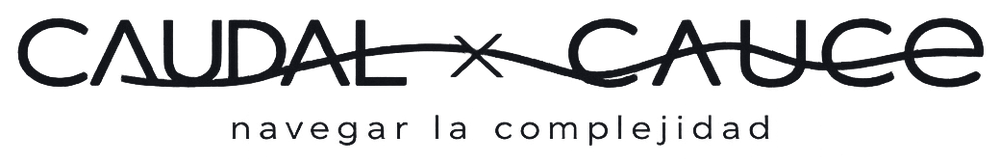
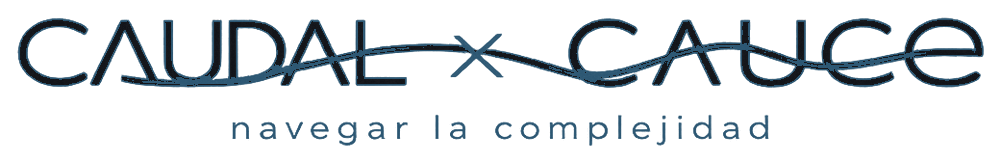
caudal: el expediente del cliente — el tablero de estado dentro del radar
El radar responde «¿qué se movió esta semana?». Faltaba la otra mitad, que es
la que un equipo lleva a mano en un Excel: «¿cómo va CADA frente que me toca,
se haya movido o no?». Ahora vive en el perfil del cliente, no en un archivo.

Por qué hace falta: un tablero a mano se desactualiza solo. En la matriz real
de un cliente (ago-2026) el proyecto de circular de SAGRILAFT figuraba «en
consulta» cuando ya se había expedido, y el de PSAV «pendiente de segundo
debate» cuando estaba archivado. No es descuido: siete frentes a mano no
escalan.

Se agrupa por URGENCIA y no por fuente, que es lo que el Excel no puede hacer:
en consulta pública (con el plazo corriendo) → en trámite → norma vigente →
cerrado. Cruza los cuatro pilares en una sola vista.

Dos decisiones de precisión, ambas medidas:

· El expediente exige que el tema esté en el TÍTULO. `radar_congreso` también
  acepta la coincidencia dentro del articulado —para descubrir es justo lo que
  se busca— pero para un registro es ruido: con el perfil de Binance, 9 de 14
  proyectos entraban solo por el texto, entre ellos uno sobre el STUNT como
  disciplina deportiva que menciona «lavado de activos» de pasada. Lo que se
  descarta queda contado en `solo_en_texto` y se dice en pantalla: si un tema
  importa de verdad, la salida es agregarlo al perfil.

· Con el filtro haciendo la precisión, el cupo del radar se abre de 24 a 90.
  El radar prioriza lo VIVO, así que con cupo corto los archivados relevantes
[…]

diff --git a/caudal.html b/caudal.html
@@ -563,6 +563,38 @@
     .kpis{grid-template-columns:repeat(2,1fr)} .grid2{grid-template-columns:1fr}
     .funnel-row .lab{width:96px}
   }
+
+  /* ── Expediente del cliente (tablero de estado) ───────────────────────── */
+  .tb-intro{font-size:.86rem;color:#9aa0b0;max-width:62ch;margin:.15rem 0 .7rem;line-height:1.5}
+  .tb-btn{background:transparent;border:1px solid rgba(255,255,255,.22);color:#e8e9ee;
+          font:inherit;font-size:.85rem;padding:.5rem .9rem;border-radius:3px;cursor:pointer}
+  .tb-btn:hover{border-color:#3d6fff;color:#fff}
+  .tb-kpis{display:flex;flex-wrap:wrap;gap:1.1rem;font-size:.82rem;color:#9aa0b0;
+           padding:.6rem 0 .9rem;border-bottom:1px solid rgba(255,255,255,.08)}
+  .tb-kpis b{color:#fff;font-weight:700}
+  .tb-kpis .tb-hoy{margin-left:auto;font-size:.74rem;opacity:.7}
+  .tb-grupo{margin:1.1rem 0;border-left:2px solid rgba(255,255,255,.14);padding-left:.85rem}
+  .tb-grupo.urg{border-left-color:#f97316}
+  .tb-grupo.viv{border-left-color:#3d6fff}
+  .tb-grupo.vig{border-left-color:#4ade80}
+  .tb-grupo.cer{border-left-color:rgba(255,255,255,.2)}
+  .tb-gh{font-size:.92rem;color:#e8e9ee}
+  .tb-gh span{color:#8b90a0;font-size:.8rem;margin-left:.3rem}
+  .tb-gn{font-size:.76rem;color:#8b90a0;margin:.15rem 0 .5rem}
+  .tb-tab{width:100%;border-collapse:collapse;font-size:.8rem}
+  .tb-tab th{text-align:left;font-weight:500;font-size:.68rem;letter-spacing:.5px;
+             text-transform:uppercase;color:#8b90a0;padding:.3rem .6rem .3rem 0;
+             border-bottom:1px solid rgba(255,255,255,.09)}
+  .tb-tab td{padding:.45rem .6rem .45rem 0;vertical-align:top;
+             border-bottom:1px solid rgba(255,255,255,.05);color:#ccd0da}
+  .tb-tab a{color:#ccd0da;text-decoration:none;border-bottom:1px solid rgba(255,255,255,.2)}
+  .tb-tab a:hover{color:#fff;border-color:#3d6fff}
+  .tb-ref{color:#fff;font-weight:700;white-space:nowrap}
+  .tb-q{color:#9aa0b0}
+  .tb-tipo{font-size:.7rem;color:#7d8290;margin-top:.1rem}
+  .tb-cierra{font-size:.7rem;color:#f97316;margin-top:.1rem}
+  .tb-nota{font-size:.76rem;color:#8b90a0;margin-top:.8rem;padding-top:.6rem;
+           border-top:1px solid rgba(255,255,255,.08);max-width:70ch;line-height:1.5}
 </style>
 </head>
 <body>
@@ -2448,7 +2480,60 @@
         <span class="chip" data-p="contratacion">Contratación <b>${con.length}</b></span>
         <span class="chip" data-p="medios">Prensa <b>${medios.length}</b></span>
       </div>
-      <div id="cli-detalle" style="margin-top:1rem"></div>`;
+      <div id="cli-detalle" style="margin-top:1rem"></div>
+
+      <div class="cli-sub" style="margin-top:1.6rem">El expediente de ${esc(cl.nombre)}</div>
+      <div class="tb-intro">El radar de arriba dice <b>qué se movió</b>. Esto dice
+        <b>cómo va cada frente</b>, se haya movido o no — el registro que un equipo
+        suele llevar a mano en un Excel y que se desactualiza solo.</div>
+      <div id="cli-tablero"><button class="tb-btn" id="tb-load">Abrir el expediente →</button></div>`;
+  }
+
+  // ── EXPEDIENTE DEL CLIENTE ───────────────────────────────────────────────
+  // Es la otra mitad del radar y se carga aparte, bajo demanda: recorre los
+  // cuatro pilares completos y no tiene por qué retrasar la primera pantalla.
+  const TB_CLS={consulta:'urg',tramite:'viv',vigente:'vig',cerrado:'cer'};
+  let TB_ARG=null;
+  function tbRender(d){
+    const box=document.getElementById('cli-tablero'); if(!box) return;
+    const k=d.kpis||{};
+    const grupos=(d.grupos||[]).filter(g=>g.n>0).map(g=>`
+      <div class="tb-grupo ${TB_CLS[g.k]||''}">
+        <div class="tb-gh"><b>${esc(g.nombre)}</b> <span>${g.n}</span></div>
+        <div class="tb-gn">${esc(g.nota||'')}</div>
+        <table class="tb-tab">
+          <tr><th style="width:16%">Referencia</th><th style="width:38%">Norma o proyecto</th>
+              <th style="width:24%">Entidad</th><th style="width:12%">Estado</th><th>Fecha</th></tr>
+          ${g.items.map(it=>`<tr>
+            <td class="tb-ref">${esc(it.ref||'—')}</td>
+            <td>${it.url?`<a href="${esc(it.url)}" target="_blank" rel="noopener">${esc(it.titulo)}</a>`:esc(it.titulo)}
+                <div class="tb-tipo">${esc(it.tipo||'')}</div></td>
+            <td class="tb-q">${esc(it.entidad||'—')}</td>
+            <td class="tb-q">${esc(it.estado||'—')}${it.cierra?`<div class="tb-cierra">cierra ${esc(it.cierra)}</div>`:''}</td>
+            <td class="tb-q">${esc((it.fecha||'').slice(0,10))}</td></tr>`).join('')}
+        </table>
+        ${g.n>g.items.length?`<div class="tb-gn">Se muestran ${g.items.length} de ${g.n}.</div>`:''}
+      </div>`).join('');
+    // El descarte se dice, no se esconde: si un tema importa y solo aparece en
+    // el articulado, la salida es agregarlo al perfil.
+    const nota=d.solo_en_texto?`<div class="tb-nota">${d.solo_en_texto} proyecto(s) más
+      mencionan estos temas dentro de su articulado pero no en el título, así que no entran
+      al expediente. Si alguno debería estar, agrega ese tema al perfil.</div>`:'';
+    box.innerHTML=`<div class="tb-kpis">
+        <span><b>${k.total||0}</b> frentes</span><span><b>${k.consulta||0}</b> en consulta</span>
+        <span><b>${k.tramite||0}</b> en trámite</span><span><b>${k.vigente||0}</b> vigentes</span>
+        <span><b>${k.cerrado||0}</b> cerrados</span>
+        <span class="tb-hoy">al ${esc(d.hoy||'')}</span>
+      </div>${grupos||'<div class="cli-empty">Sin frentes registrados para este perfil.</div>'}${nota}`;
+  }
+  document.addEventListener('click',ev=>{
+    if(ev.target&&ev.target.id==='tb-load'&&TB_ARG) tbLoad(TB_ARG);
+  });
+  async function tbLoad(arg){
+    const box=document.getElementById('cli-tablero'); if(!box) return;
+    box.innerHTML='<div class="llm-load">Armando el expediente <span class="dots"><span></span><span></span><span></span></span></div>';
+    try{ tbRender(await call({action:'tablero',...arg})); }
+    catch(e){ box.innerHTML='<div class="cli-empty">No se pudo armar el expediente. Reintenta en un momento.</div>'; }
   }
   function cliRenderLectura(l){
     const body=document.getElementById('cli-lectura-body'); if(!body) return;
@@ -2483,6 +2568,9 @@
     catch(e){ if(mine===_cliSeq&&body) body.innerHTML='<div class="err">No se pudo cargar el radar. Reintenta.</div>'; return; }
     if(mine!==_cliSeq) return;
     if(d&&d.error){ if(body) body.innerHTML='<div class="err">'+esc(d.error)+'</div>'; return; }
+    // el expediente se pide con el mismo `arg` del radar, pero solo cuando el
+    // usuario lo abre: recorre los cuatro pilares enteros
+    TB_ARG = esPerfil ? {perfil:req.perfil} : {sector:arg.sector};
     cliRender(d);
     // el radar ya está en pantalla; la lectura llega después (o ya venía hecha)
     if(d.lectura && !d.lectura.error) cliRenderLectura(d.lectura);

diff --git a/tools/caudal/lambda/lambda_handler.py b/tools/caudal/lambda/lambda_handler.py
@@ -3017,6 +3017,156 @@ def handler(event, context):
         # autocompletado del diccionario (④) para elegir empresas vigiladas
         return _resp(200, {'empresas': caudal_core.buscar_empresas(body.get('query', ''))})
 
+
+    if action == 'tablero':
+        # ── EL EXPEDIENTE DEL CLIENTE ──────────────────────────────────────
+        # El radar responde «¿qué se movió esta semana?». Esto responde la otra
+        # mitad, que es la que el cliente lleva a mano en un Excel: «¿cómo va
+        # CADA frente que me toca, se haya movido o no?».
+        #
+        # Por qué hace falta las dos cosas: un tablero de estado se desactualiza
+        # solo. En la matriz real de un cliente (ago-2026) el proyecto de
+        # circular de SAGRILAFT figuraba «en consulta» cuando ya se había
+        # expedido, y el proyecto de ley de PSAV «pendiente de segundo debate»
+        # cuando estaba archivado. Ninguna de las dos cosas es descuido: es que
+        # mantener siete frentes a mano no escala.
+        #
+        # Se agrupa por URGENCIA y no por fuente, que es lo que el Excel no
+        # puede hacer: primero lo que tiene plazo corriendo, al final lo cerrado.
+        sk = body.get('sector')
+        perfil_in = body.get('perfil')
+        if isinstance(perfil_in, dict):
+            s = caudal_core.normalizar_perfil(perfil_in)
+            if not s['temas'] and not s['empresas_keys']:
+                return _resp(400, {'error': 'el perfil necesita al menos un tema '
+                                            'o una empresa vigilada'})
+        else:
+            s = caudal_core.sector_cliente(sk)
+            if not s:
+                return _resp(400, {'error': f'sector desconocido: {sk}'})
+
+        temas = [_fold_q(t) for t in (s.get('temas') or []) if len(_fold_q(t)) >= 4]
+        for t in caudal_core.temas_de_empresas(s.get('empresas_keys')):
+            tf = _fold_q(t)
+            if len(tf) >= 4 and tf not in temas:
+                temas.append(tf)
+        casa = lambda blob: any(t in (blob or '') for t in temas)
+        hoy = _time.strftime('%Y-%m-%d', _time.gmtime())
+        corte = str(int(hoy[:4]) - 2)          # ventana de dos años para lo cerrado
+
+        consulta, tramite, vigente, cerrado = [], [], [], []
+        solo_texto = 0
+
+        # 1 · consulta pública — lo único con reloj corriendo
+        try:
+            for r in _sucop():
+                if r.get('estado_consulta') not in ('abierta', 'cierra_pronto'):
+                    continue
+                if not casa(r.get('q')):
+                    continue
+                consulta.append({
+                    'ref': r.get('codigo') or '—', 'titulo': (r.get('titulo') or '')[:200],
+                    'tipo': (r.get('tipo_norma') or 'Proyecto de norma'),
+                    'entidad': r.get('entidad') or '—', 'estado': 'En consulta',
+                    'cierra': r.get('fecha_fin') or '', 'fecha': r.get('fecha_inicio') or '',
+                    'fuente': 'Consulta pública', 'url': r.get('url') or ''})
+        except Exception as e:
+            print(f'[tablero] sucop FAIL: {type(e).__name__}: {e}')
+
+        # 2 · Congreso — vivo y cerrado, con su comisión
+        try:
+            rc = caudal.radar_congreso(temas=s.get('temas', []),
+                                       comision_lbl=s.get('comision', ''), cap=90,
+                                       empresas_keys=s.get('empresas_keys'))
+            # El tablero exige que el tema esté en el TÍTULO. `radar_congreso`
+            # también acepta la coincidencia dentro del articulado, que para
+            # descubrir es justo lo que se busca pero para un registro es ruido:
+            # medido con el perfil de Binance, 9 de 14 proyectos entraban solo
+            # por el texto — uno sobre el STUNT como disciplina deportiva que
+            # menciona «lavado de activos» de pasada, otro de honores a un
+            # centenario. Ninguno es un frente suyo.
+            #
+            # Y es autocorregible: lo que se cae queda contado en
+            # `solo_en_texto`, así que si un tema importa de verdad —la reforma
+            # tributaria, por ejemplo— se agrega al perfil y entra por título.
+            for x in rc.get('senales', []):
+                if not casa(_fold_q(x.get('titulo'))):
+                    solo_texto += 1
+                    continue
+                # el id del Congreso llega como entero; el frontend lo trata
+                # como texto igual que las demás referencias
+                fila = {'ref': x.get('num') or f"id {x.get('id')}",
+                        'titulo': (x.get('titulo') or '')[:200],
+                        'tipo': 'Proyecto de ley',
+                        'entidad': ('Congreso · Comisión ' + x['comision'].title())
+                                   if x.get('comision') else 'Congreso',
+                        'estado': x.get('resultado_txt') or '—', 'cierra': '',
+                        'fecha': str(x.get('anio') or ''), 'fuente': 'Congreso', 'url': ''}
+                (tramite if x.get('resultado') == 'EN_TRAMITE' else cerrado).append(fila)
+        except Exception as e:
+            print(f'[tablero] congreso FAIL: {type(e).__name__}: {e}')
+
+        # 3 · norma expedida — superintendencias y Ejecutivo
+        try:
+            for r in _sanciones():
+                if (r.get('tipo_acto') or '') not in ('circular', 'resolucion'):
+                    continue
+                if (r.get('fecha') or '')[:4] < corte or not casa(r.get('q')):
+                    continue
+                vigente.append({
+                    'ref': (r.get('resolucion') or '—')[:60],
+                    'titulo': (r.get('motivo') or r.get('descripcion') or '')[:200],
+                    'tipo': (r.get('tipo') or 'Acto administrativo'),
+                    'entidad': r.get('fuente_nombre') or '—', 'estado': 'Expedida',
+                    'cierra': '', 'fecha': r.get('fecha') or '',
+                    'fuente': 'Superintendencias', 'url': r.get('url') or ''})
+        except Exception as e:
+            print(f'[tablero] regulatorio FAIL: {type(e).__name__}: {e}')
+        try:
+            for r in _ejecutivo():
+                if (r.get('fecha') or '')[:4] < corte or not casa(r.get('q')):
+                    continue
+                vigente.append({
+                    'ref': (r.get('numero') or '—'), 'titulo': (r.get('titulo') or '')[:200],
+                    'tipo': (r.get('tipo') or 'Norma').title(), 'entidad': 'Presidencia',
+                    'estado': 'Expedida', 'cierra': '', 'fecha': r.get('fecha') or '',
+                    'fuente': 'Ejecutivo', 'url': r.get('url') or ''})
+        except Exception as e:
+            print(f'[tablero] ejecutivo FAIL: {type(e).__name__}: {e}')
+
+        _rec = lambda xs: sorted(xs, key=lambda r: (r.get('cierra') or r.get('fecha') or ''),
+                                 reverse=not bool(xs and xs[0].get('cierra')))
+        consulta.sort(key=lambda r: r.get('cierra') or '9999')      # el que cierra antes, primero
+        for g in (tramite, vigente, cerrado):
+            g.sort(key=lambda r: r.get('fecha') or '', reverse=True)
+
+        TOPE = 40
+        grupos = [
+            {'k': 'consulta', 'nombre': 'En consulta pública',
+             'nota': 'Tiene plazo corriendo: es lo único donde todavía se puede comentar.',
+             'n': len(consulta), 'items': consulta[:TOPE]},
+            {'k': 'tramite', 'nombre': 'En trámite en el Congreso',
+             'nota': 'Vivo. Puede moverse en cualquier sesión.',
+             'n': len(tramite), 'items': tramite[:TOPE]},
+            {'k': 'vigente', 'nombre': 'Norma expedida y vigente',
+             'nota': 'Ya obliga. Acá se mira cumplimiento, no incidencia.',
+             'n': len(vigente), 'items': vigente[:TOPE]},
+            {'k': 'cerrado', 'nombre': 'Cerrado o archivado',
+             'nota': 'Sin trámite. Queda como antecedente de lo que ya se intentó.',
+             'n': len(cerrado), 'items': cerrado[:TOPE]},
+        ]
+        return _resp(200, {
+            'cliente': {'nombre': s.get('nombre', ''), 'temas': s.get('temas', []),
+                        'empresas': s.get('empresas', [])},
+            'hoy': hoy, 'tope_por_grupo': TOPE,
+            # proyectos que casaban solo dentro del articulado y no en el
+            # título: es la pista de que al perfil le falta un tema
+            'solo_en_texto': solo_texto,
+            'kpis': {'total': len(consulta) + len(tramite) + len(vigente) + len(cerrado),
+                     'consulta': len(consulta), 'tramite': len(tramite),
+                     'vigente': len(vigente), 'cerrado': len(cerrado)},
+            'grupos': grupos})
+
     if action == 'cliente':        # Vista Cliente · radar SIGA sobre los pilares
         # Dos entradas: `perfil` (los temas y las vigiladas DEL cliente, que el
         # frontend trae del KV del worker) o `sector` (uno de los 6 presets, que

diff --git a/tools/caudal/brief/build_brief_binance.py b/tools/caudal/brief/build_brief_binance.py
@@ -74,7 +74,7 @@ body {{ font-family:'HN',sans-serif; color:#15171c; background:transparent;
 
 h1 {{ font-size:19.3pt; font-weight:700; line-height:1.14; margin:0 0 7px;
       letter-spacing:-.5px; color:#0b0d11; }}
-h1 .hl {{ color:#0047FF; }}
+h1 .hl {{ color:#2b5672; }}   /* azul de cauce.co, no el #0047FF del sitio */
 .lead {{ font-size:10.1pt; color:#3d434f; font-weight:300; margin:0 0 4px; max-width:168mm; }}
 .window {{ font-size:7.4pt; color:#5a6070; text-transform:uppercase; letter-spacing:.6px;
            margin:9px 0 0; padding-top:7px; border-top:1px solid #dfe2e8; }}
@@ -90,7 +90,7 @@ h1 .hl {{ color:#0047FF; }}
    izquierda. Antes eran solo una franja sobre fondo casi igual al papel y no se
    leían como bloques separados. */
 .item {{ margin:0 0 13px; padding:12px 15px; background:#fdfdfc;
-         border:1px solid #e2e5ea; border-left:3px solid #0047FF;
+         border:1px solid #e2e5ea; border-left:3px solid #2b5672;
          border-radius:2px;
          /* Las cajas FLUYEN entre páginas. Con `page-break-inside:avoid` una
             caja alta que no cabía saltaba entera y dejaba un tercio de página
@@ -121,7 +121,7 @@ b {{ color:#0b0d11; font-weight:700; }}
 .porque {{ page-break-inside:avoid; margin-top:6px; padding:7px 10px; background:#fff; border:1px solid #e2e5ea;
            border-radius:2px; font-size:9.35pt; color:#2b303a; }}
 .porque .et {{ display:block; font-size:7.2pt; letter-spacing:1.1px; text-transform:uppercase;
-               color:#0047FF; font-weight:700; margin-bottom:2px; }}
+               color:#2b5672; font-weight:700; margin-bottom:2px; }}
 .item.urg .porque .et {{ color:#d9480f; }}
 .item.ok  .porque .et {{ color:#2b8a3e; }}
 .item.resumen .porque .et {{ color:#5f3dc4; }}

diff --git a/tools/leyes-senado/build_dataset.py b/tools/leyes-senado/build_dataset.py
@@ -525,6 +525,13 @@ def main():
             'tip': r['tipologia'], 'cf': r['crea_fondo'], 'jp': r['jala_presupuesto_regional'],
             'emp': r['empuje'], 'vs': r['vitrina_score'], 'vp': r['veces_presentado'],
             'ap': r.get('autor_principal'),
+            # Número de radicado. Va en el índice porque es la ÚNICA referencia
+            # que un cliente reconoce: el `id` es interno nuestro, y un tablero
+            # que diga «900003» en vez de «068/2026C» no se puede leer. Se
+            # guarda solo el que exista, para no engordar el índice —se carga
+            # entero en memoria— y con la clave corta como el resto.
+            **({'nc': r['numero_camara']} if r.get('numero_camara') else {}),
+            **({'ns': r['numero_senado']} if r.get('numero_senado') else {}),
             # 'oc':1 = viene del registro de Cámara (nunca cruzó al Senado) →
             # sin fechas de debate ni causa de archivo. Se omite si es del Senado
             # para no engordar el índice, que se carga entero en memoria.

diff --git a/tools/caudal/caudal_core.py b/tools/caudal/caudal_core.py
@@ -1116,6 +1116,10 @@ class Caudal:
         else:
             nivel, accion = 'bajo', 'Antecedente histórico — monitoreo pasivo'
         return {'tipo': 'congreso', 'id': h['id'], 'tb': h.get('tb', 'pdly'),
+                # El número de radicado es la única referencia que el cliente
+                # reconoce: el `id` es interno. Se prefiere el de Cámara cuando
+                # existe porque es el que traen las agendas del día.
+                'num': h.get('nc') or h.get('ns') or '',
                 'anio': a, 'titulo': h['t'], 'comision': h.get('com', ''),
                 'resultado': res, 'resultado_txt': RES_LABEL.get(res, res),
                 'empuje': h.get('emp'), 'nivel': nivel, 'accion': accion}
